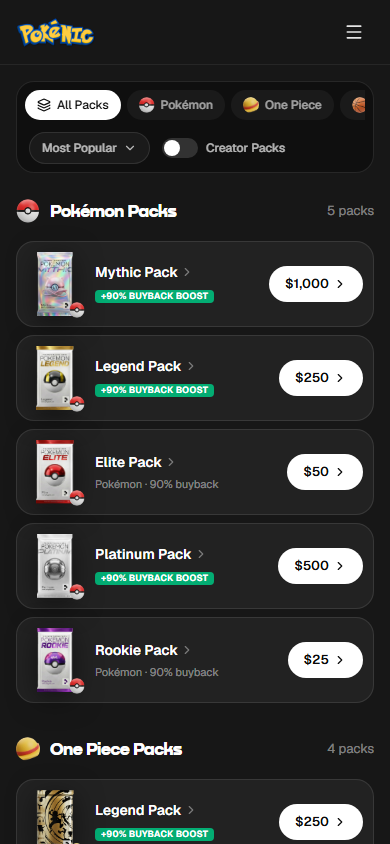
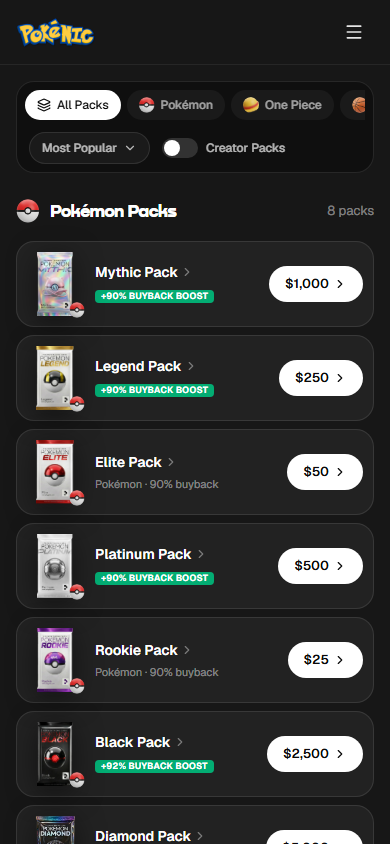
feat(packs): out-of-stock + buyback-percent backend fields (P2 parity complete)
Pack model gains buyback_percent (default 90) + in_stock (default true) via Migration20260609112655. Seed adds Black/Diamond Pokemon at +92% and a Trainer out-of-stock tier; the storefront renders +92% badges and a greyed 'Sold out' tile, driven by the new fields (mock catalog mirrors them for backend-down parity). Also disables the bundled Medusa /app admin in medusa-config — this Mercur project serves its own /dashboard + /seller dashboards via the *-ui modules, and the bundled admin's start-time index.html requirement was blocking 'medusa start' after a rebuild. Verified: /store/packs emits bb=92 + in_stock=false; verify-claw-parity 7/7 on :4000.

diff --git a/backend/packages/api/src/modules/packs/migrations/Migration20260609112655.ts b/backend/packages/api/src/modules/packs/migrations/Migration20260609112655.ts
@@ -1,0 +1,13 @@
+import { Migration } from "@medusajs/framework/mikro-orm/migrations";
+
+export class Migration20260609112655 extends Migration {
+
+  override async up(): Promise<void> {
+    this.addSql(`alter table if exists "pack" add column if not exists "buyback_percent" integer not null default 90, add column if not exists "in_stock" boolean not null default true;`);
+  }
+
+  override async down(): Promise<void> {
+    this.addSql(`alter table if exists "pack" drop column if exists "buyback_percent", drop column if exists "in_stock";`);
+  }
+
+}

diff --git a/backend/packages/api/src/scripts/seed.ts b/backend/packages/api/src/scripts/seed.ts
@@ -434,13 +434,15 @@ type PackSeed = {
   category: string;
   rank: number;
   boost: boolean;
+  buyback_percent: number;
+  in_stock: boolean;
 };
 
 const clawIcon = (base: string) => `/images/claw/${base}-icon.webp`;
 
 const PACK_SEED_GROUPS: {
   category: string;
-  packs: { slug: string; title: string; price: number; image: string; boost?: boolean }[];
+  packs: { slug: string; title: string; price: number; image: string; boost?: boolean; buyback?: number; inStock?: boolean }[];
 }[] = [
   {
     category: "pokemon",
@@ -450,6 +452,9 @@ const PACK_SEED_GROUPS: {
       { slug: "pokemon-elite", title: "Elite Pack", price: 50, image: clawIcon("elite-pack") },
       { slug: "pokemon-platinum", title: "Platinum Pack", price: 500, image: clawIcon("platinum-pack"), boost: true },
       { slug: "pokemon-rookie", title: "Rookie Pack", price: 25, image: clawIcon("rookie-pack") },
+      { slug: "pokemon-black", title: "Black Pack", price: 2500, image: clawIcon("black-pack"), boost: true, buyback: 92 },
+      { slug: "pokemon-diamond", title: "Diamond Pack", price: 5000, image: clawIcon("diamond-pack"), boost: true, buyback: 92 },
+      { slug: "pokemon-trainer", title: "Trainer Pack", price: 10, image: clawIcon("trainer-pack"), inStock: false },
     ],
   },
   {
@@ -508,6 +513,8 @@ const PACK_SEED: PackSeed[] = PACK_SEED_GROUPS.flatMap((group) =>
     category: group.category,
     rank: index,
     boost: pack.boost ?? false,
+    buyback_percent: pack.buyback ?? 90,
+    in_stock: pack.inStock ?? true,
   }))
 );
 

diff --git a/backend/packages/api/medusa-config.ts b/backend/packages/api/medusa-config.ts
@@ -4,6 +4,11 @@ import path from 'path'
 loadEnv(process.env.NODE_ENV || 'development', process.cwd())
 
 module.exports = defineConfig({
+  // Bundled Medusa admin (/app) disabled — this Mercur project serves its own
+  // admin (/dashboard) + vendor (/seller) dashboards via the *-ui modules below
+  // (and the apps/admin + apps/vendor dev servers). Disabling avoids the default
+  // admin loader requiring a bundled index.html at `medusa start`.
+  admin: { disable: true },
   projectConfig: {
     databaseUrl: process.env.DATABASE_URL,
     http: {

diff --git a/backend/packages/api/src/modules/packs/models/pack.ts b/backend/packages/api/src/modules/packs/models/pack.ts
@@ -21,6 +21,11 @@ export const Pack = model.define("pack", {
   price: model.number(),
   image: model.text(),
   boost: model.boolean().default(false),
+  // Buyback percentage shown on the storefront boost badge (default 90; premium
+  // Black/Diamond tiers are 92). in_stock=false renders a greyed "Out of Stock"
+  // tile on /claw (e.g. the Trainer tier).
+  buyback_percent: model.number().default(90),
+  in_stock: model.boolean().default(true),
   rank: model.number().default(0),
   status: model.enum(["active", "draft"]).default("active"),
 });

diff --git a/src/app/claw/packs-data.ts b/src/app/claw/packs-data.ts
@@ -59,6 +59,7 @@ export const CATEGORIES: PackCategory[] = [
       { id: "pokemon-elite", name: "Elite Pack", price: "$50", image: "/images/claw/elite-pack-icon.webp" },
       { id: "pokemon-platinum", name: "Platinum Pack", price: "$500", image: "/images/claw/platinum-pack-icon.webp", boost: true },
       { id: "pokemon-rookie", name: "Rookie Pack", price: "$25", image: "/images/claw/rookie-pack-icon.webp" },
+      { id: "pokemon-trainer", name: "Trainer Pack", price: "$10", image: "/images/claw/trainer-pack-icon.webp", inStock: false },
     ],
   },
   {